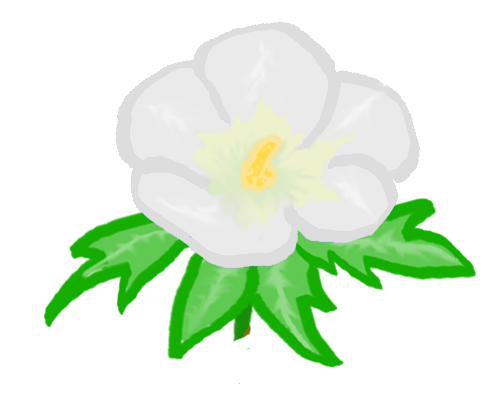
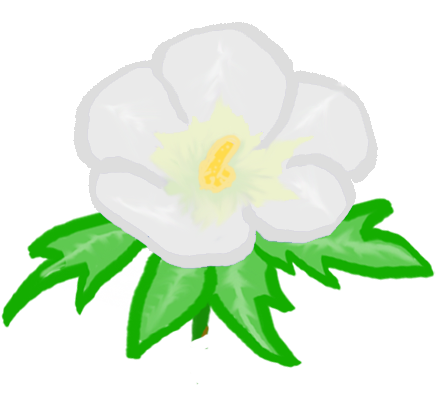
Tweaking one of the nav flowers &  seal flower positioning

diff --git a/style.css b/style.css
@@ -104,8 +104,8 @@ h4 {
 
 #seal {
   position: absolute;
-  bottom: -10px;
-  right: 40px;
+  bottom: -40px;
+  right: 10px;
 }
 
 #container {
